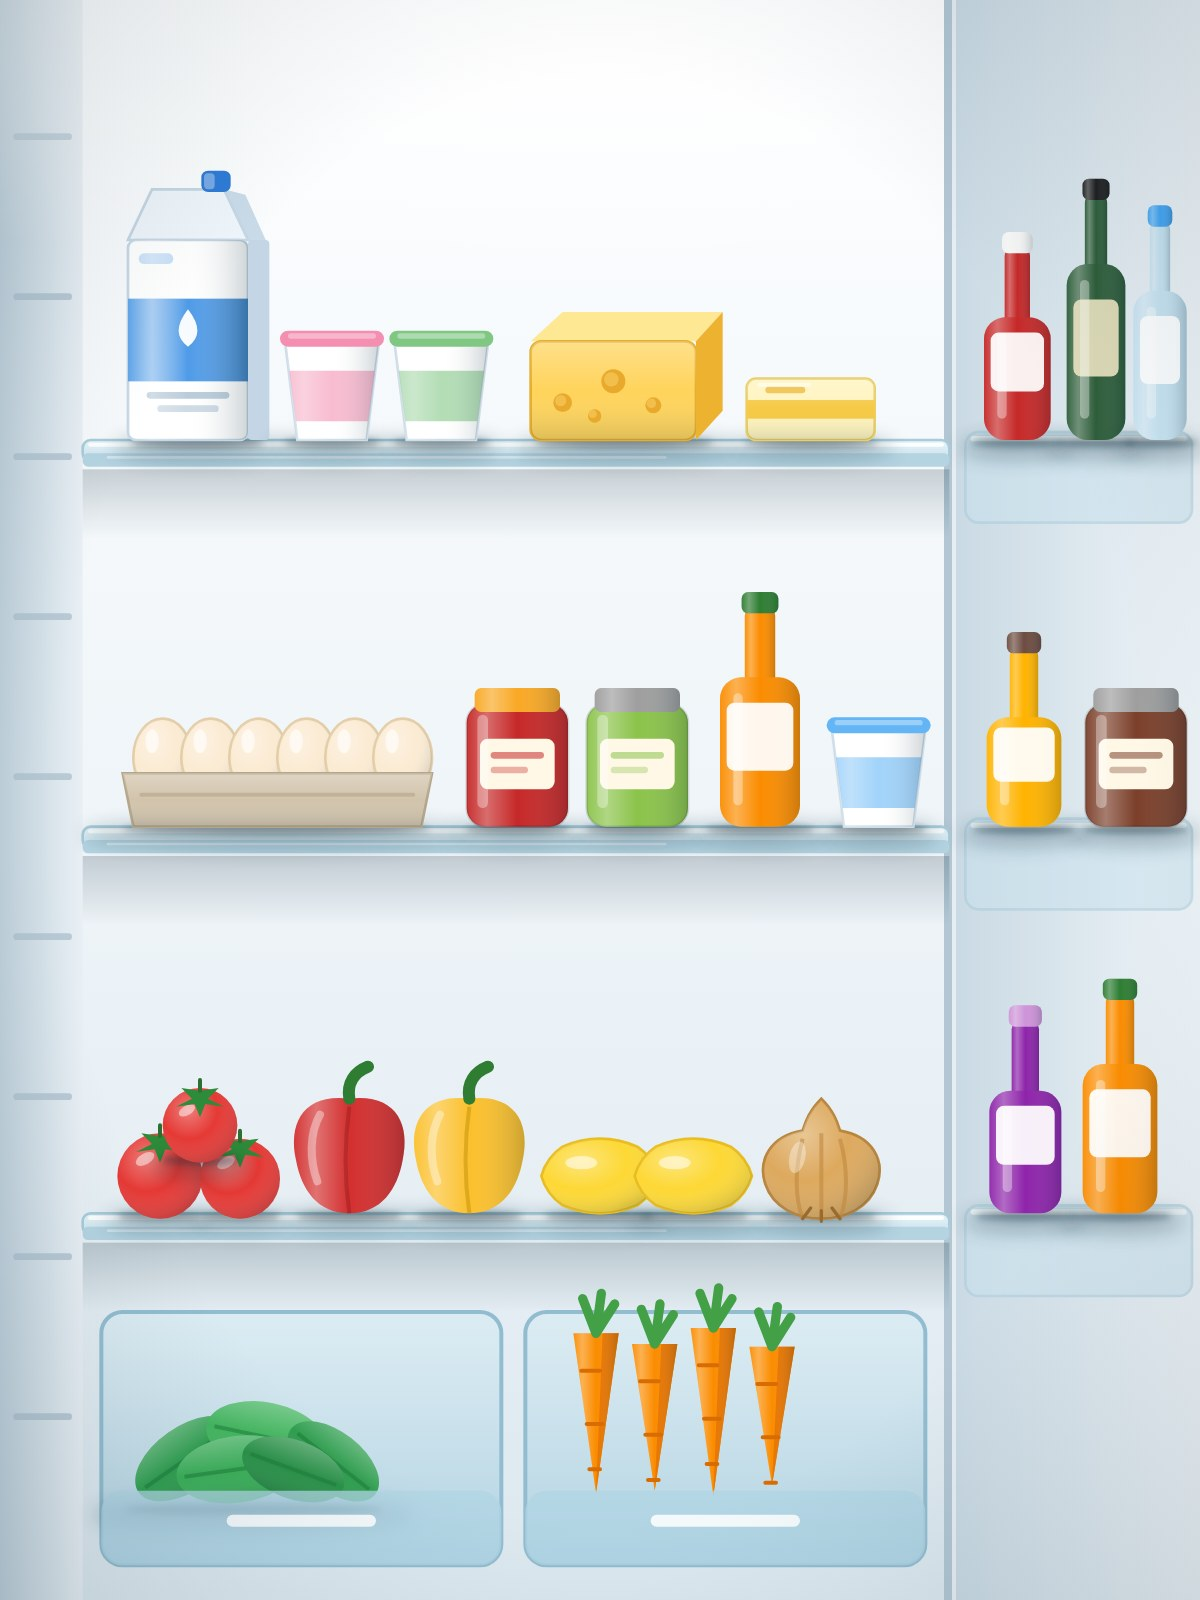
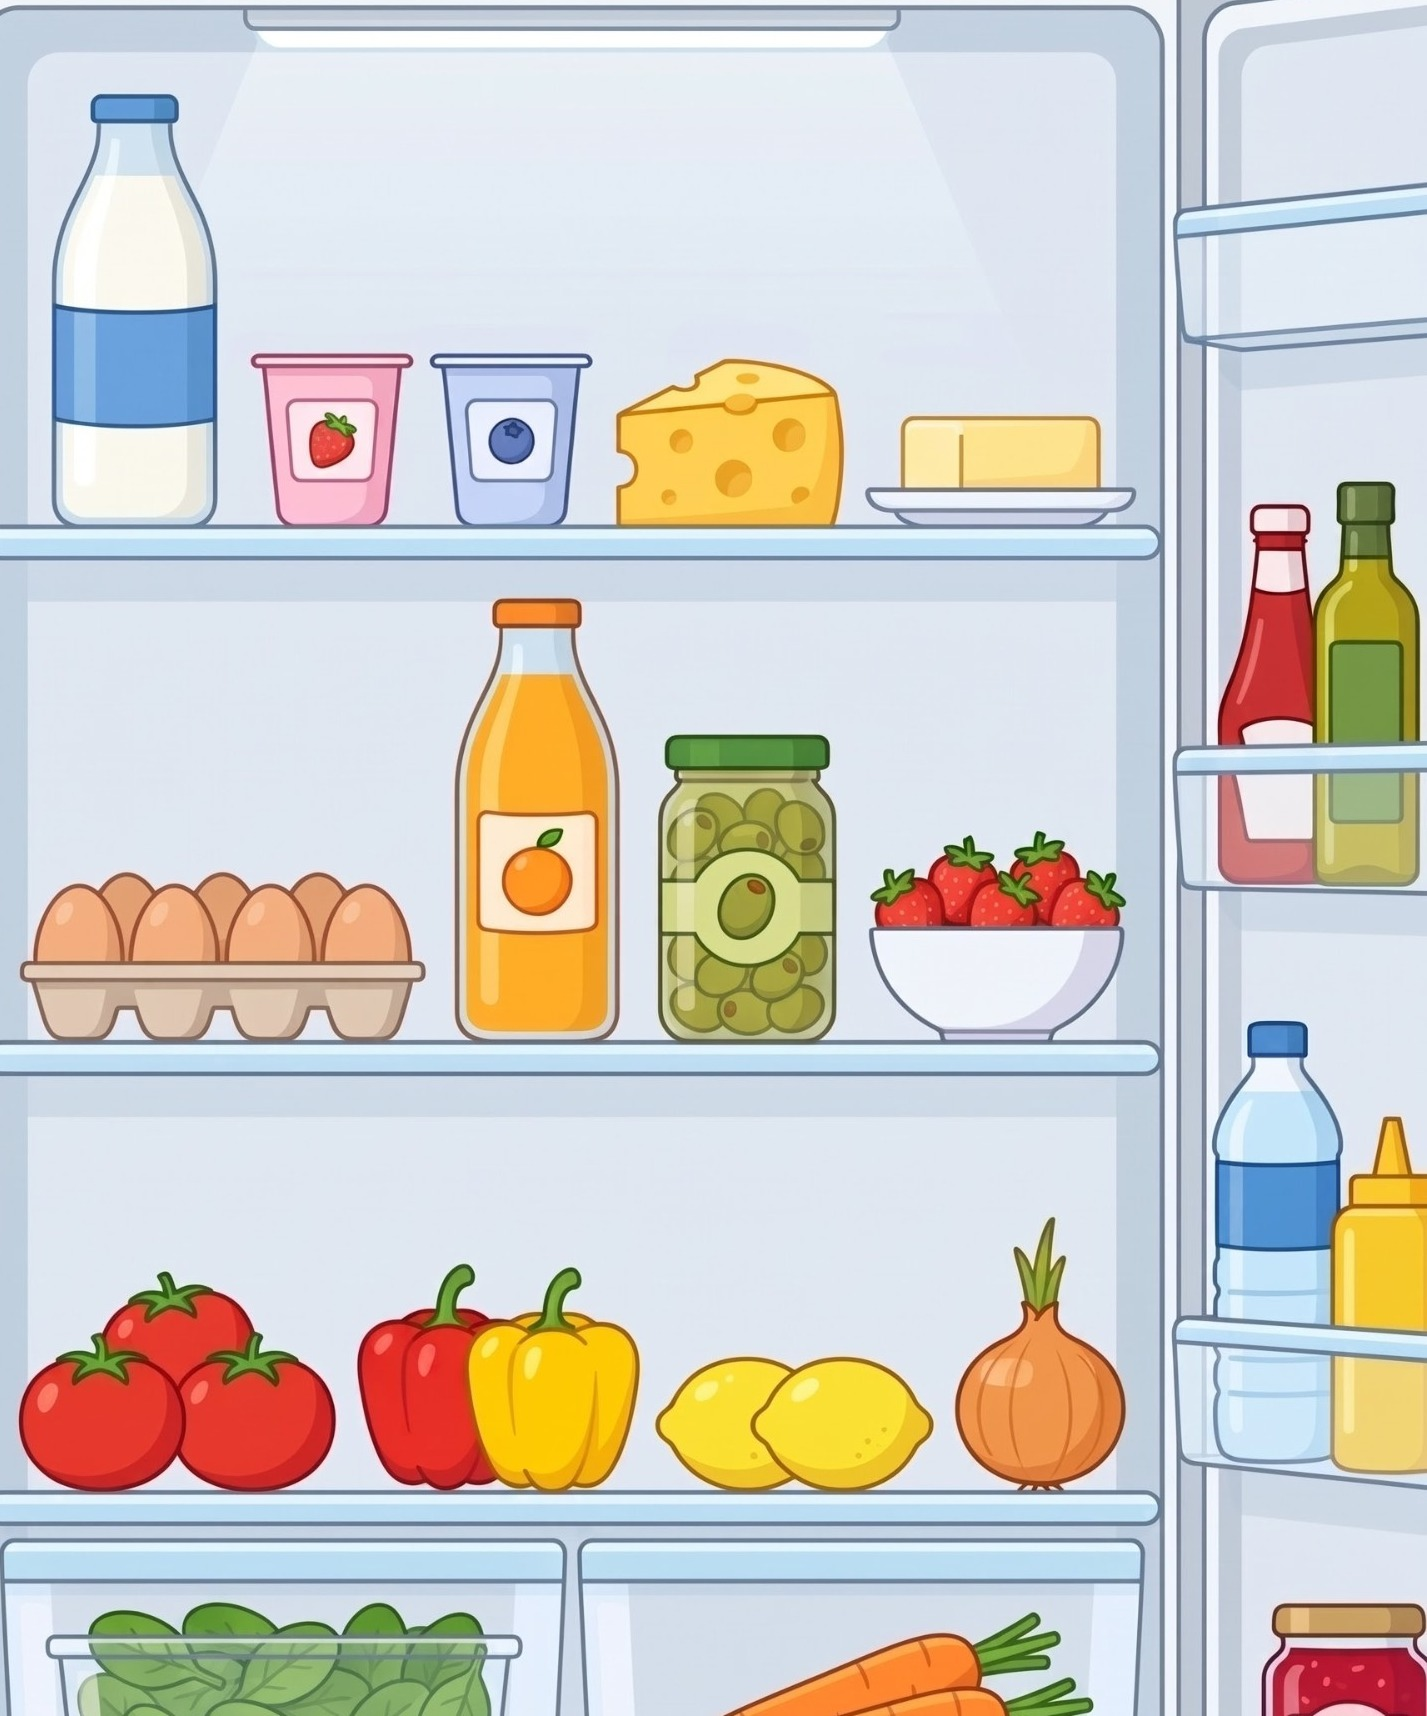
Onboarding: new sample fridge picture, cropped to the inside of the fridge
Replaces the drawn illustration with the picture generated for the app (flat 2D,
consistent packaging: flavored products show their ingredient, staples a plain
band). Cropped to the inside of the fridge (no cabinet rim, no generator
watermark): 1427x1716, 313 KB. The labels are re-measured for it (cheese, eggs,
tomatoes, onion; the orange juice sits too close under the top shelf to carry
one), the card now grows up to the whole picture on tall phones, the
"Sample fridge" badge moves top-right so it clears the milk, and the card is
pinned left-to-right so the labels stay on their items on RTL devices.
Removes the old illustration generator scripts. Checked at 375x667, 390x844,
430x932, light and dark; the scan, results and sample-scan frames were
re-baselined.

Claude-Session: https://claude.ai/code/session_01RtbBoobjW7cVhPz1v3aXm1

diff --git a/src/constants/sampleFridge.js b/src/constants/sampleFridge.js
@@ -1,15 +1,17 @@
 import { Asset } from "expo-asset";
 
 /**
- * The onboarding "sample scan": a bundled illustration of an open fridge and
+ * The onboarding "sample scan": a bundled illustration of the inside of a fridge and
  * the fixed list of what is in it. It runs through the real scanning animation
  * and then the real recipe generation, but never calls the vision API, never
  * uses up a daily free scan, and is never saved (see completeDemoScan in
  * ScanContext) — it exists so someone who installs the app away from their
  * kitchen still gets to see what it does.
  *
- * Every item below is drawn in the illustration (scripts/sample-fridge-
- * illustration.js), so what is "detected" matches what is on screen.
+ * Every item below is drawn in the illustration, so what is "detected" matches what is on
+ * screen. The picture was generated for this app by its owner (Google Flow) and cropped to the
+ * inside of the fridge: no cabinet rim, no generator watermark. Replacing it means re-measuring
+ * SAMPLE_FRIDGE_TAGS below.
  */
 export const SAMPLE_FRIDGE_IMAGE = require("../../assets/sample-fridge.jpg");
 
@@ -30,16 +32,17 @@ export const SAMPLE_FRIDGE_ITEMS = [
 ];
 
 /**
- * Where to pin a label on the illustration, as fractions of the image (x across, y down) at
- * the top-centre of the item. Only items on the top three shelves: the onboarding card crops
- * the bottom drawers on shorter phones. Names come from the sampleFridge.<id> translations.
+ * Where to pin a label on the picture, as fractions of the image (x across, y down) at the
+ * top-centre of the item. Only items with clear wall above them and nothing from the shelf above
+ * in the way (the orange juice sits too close under the top shelf), on the upper shelves: the
+ * onboarding card crops the bottom drawers on shorter phones. Names come from the
+ * sampleFridge.<id> translations. Measured on assets/sample-fridge.jpg (1427 x 1716).
  */
 export const SAMPLE_FRIDGE_TAGS = [
-  { id: "cheese", x: 0.511, y: 0.196 },
-  { id: "eggs", x: 0.233, y: 0.45 },
-  { id: "orangeJuice", x: 0.633, y: 0.371 },
-  { id: "tomatoes", x: 0.167, y: 0.68 },
-  { id: "onion", x: 0.684, y: 0.6875 },
+  { id: "cheese", x: 0.511, y: 0.21 },
+  { id: "eggs", x: 0.154, y: 0.508 },
+  { id: "tomatoes", x: 0.126, y: 0.741 },
+  { id: "onion", x: 0.729, y: 0.71 },
 ];
 
 /**

diff --git a/src/screens/OnboardingScreen.jsx b/src/screens/OnboardingScreen.jsx
@@ -35,15 +35,15 @@ const GREEN = EMERALD[600];
 
 // The sample card takes the height the screen has left after the header, the
 // language row and the buttons (about 440pt), so a tall phone shows more of the
-// fridge instead of an empty band. The image is shown at full width and
-// shifted up a little rather than centred, which keeps the top shelf (the
-// milk, cheese and eggs) in view and cuts the bottom drawers instead.
+// fridge instead of an empty band, up to the whole picture. The image is shown
+// at full width and shifted up a little rather than centred, which keeps the
+// top shelf (the milk, cheese and eggs) in view and cuts the bottom first.
 function sampleCardLayout() {
   const { width, height } = Dimensions.get("window");
   const cardWidth = width - 40;
-  const cardHeight = Math.max(220, Math.min(360, height - 440));
   const size = sampleFridgeSize();
   const imageHeight = size ? (cardWidth * size.height) / size.width : (cardWidth * 4) / 3;
+  const cardHeight = Math.round(Math.max(220, Math.min(imageHeight, height - 440)));
   const overflow = Math.max(0, imageHeight - cardHeight);
   return { cardWidth, cardHeight, imageHeight, imageTop: -Math.round(overflow * 0.12) };
 }
@@ -256,6 +256,8 @@ export default function OnboardingScreen({ onContinue }) {
             borderWidth: 1,
             borderColor: colors.cardBorder,
             marginBottom: 16,
+            // The picture and its labels are positioned in screen coordinates; never mirror them.
+            direction: "ltr",
           }}
         >
           <Image
@@ -286,7 +288,7 @@ export default function OnboardingScreen({ onContinue }) {
             style={{
               position: "absolute",
               top: 12,
-              left: 12,
+              right: 12,
               backgroundColor: "rgba(255,255,255,0.94)",
               borderRadius: 999,
               paddingHorizontal: 11,
